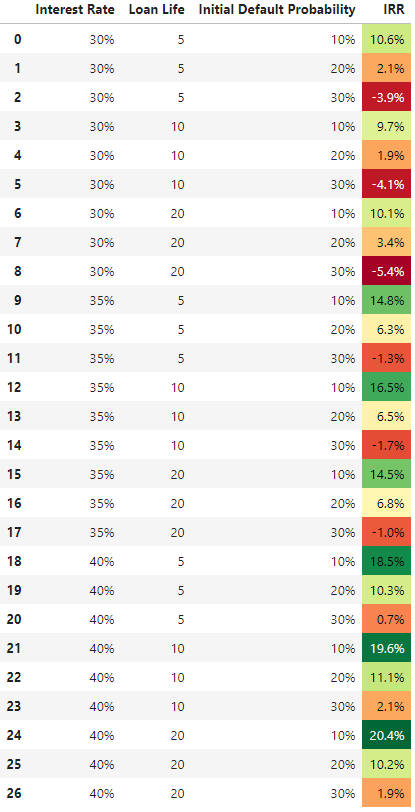
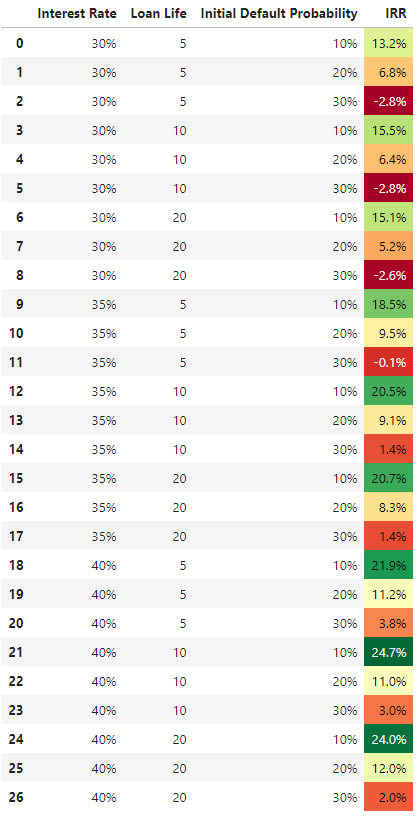
Update project 2 document and solutions

Changed region(s): [[0.0867, 0.0, 1.0, 1.0], [0.0, 0.0308, 0.0578, 0.9852], [0.4048, 0.7697, 0.4627, 0.9852]]

diff --git a/fin_model_course/plbuild/sources/document/2_debt_probability.py b/fin_model_course/plbuild/sources/document/2_debt_probability.py
@@ -176,7 +176,8 @@ def get_content():
     """
 
     case_solutions_str = """
-    I am also providing the IRRs for each possible default situation in the model with base case inputs. This way you
+    I am also providing the IRRs for each possible default situation in the model with base case inputs 
+    and a 20% interest rate. This way you
     can check your model without having to run lots of iterations. Make sure that your model can reproduce each of the
     IRRs corresponding to each default case, and then you will only need the full solutions to check that the probabilities
     are set correctly. Note that unlike the full solutions, you should be able to match these default case solutions 
@@ -231,13 +232,12 @@ def get_content():
                 ),
                 pl.SubSection(
                     [
-                        #solutions_str,
-                        #pl.UnorderedList(solutions_list),
-                        #case_solutions_str,
-                        #pl.UnorderedList(case_solutions_list),
+                        solutions_str,
                         pl.Center(
                             pl.Graphic(images_path('project-2-solutions.png'), width=0.5),
                         ),
+                        case_solutions_str,
+                        pl.UnorderedList(case_solutions_list),
                     ],
                     title='Selected Solutions'
                 ),
@@ -257,9 +257,10 @@ def get_content():
                                     lt.TableLineSegment(0, 1),
                                     lt.ValuesTable.from_list_of_lists(
                                         [
-                                            ['Model Accuracy', '70%'],
+                                            ['Model Accuracy', '60%'],
                                             ['Model Readability', '20%'],
                                             ['Model Formatting', '10%'],
+                                            ['Following the Template', '10%'],
                                             ['Bonus', '5%']
                                         ]
                                     ),
@@ -284,9 +285,7 @@ def get_content():
 
     ]
 
-
 DOCUMENT_CLASS_KWARGS = dict(
     remove_section_numbering=True,
 )
 OUTPUT_NAME = TITLE
-

diff --git a/fin_model_course/plbuild/sources/document/p3_internal_randomness.py b/fin_model_course/plbuild/sources/document/p3_internal_randomness.py
@@ -15,7 +15,7 @@ OUTPUT_LOCATION = plbuild.paths.DOCUMENTS_BUILD_PATH
 HANDOUTS_OUTPUT_LOCATION = None
 
 TITLE = 'Internal Randomness Problems'
-ORDER = 'P2'
+ORDER = 'P3'
 
 
 def get_content():

diff --git a/fin_model_course/plbuild/sources/document/p2_scenario_modeling.py b/fin_model_course/plbuild/sources/document/p2_scenario_modeling.py
@@ -15,7 +15,7 @@ OUTPUT_LOCATION = plbuild.paths.DOCUMENTS_BUILD_PATH
 HANDOUTS_OUTPUT_LOCATION = None
 
 TITLE = 'Scenario Modeling Problems'
-ORDER = 'P1'
+ORDER = 'P2'
 
 
 def get_content():
